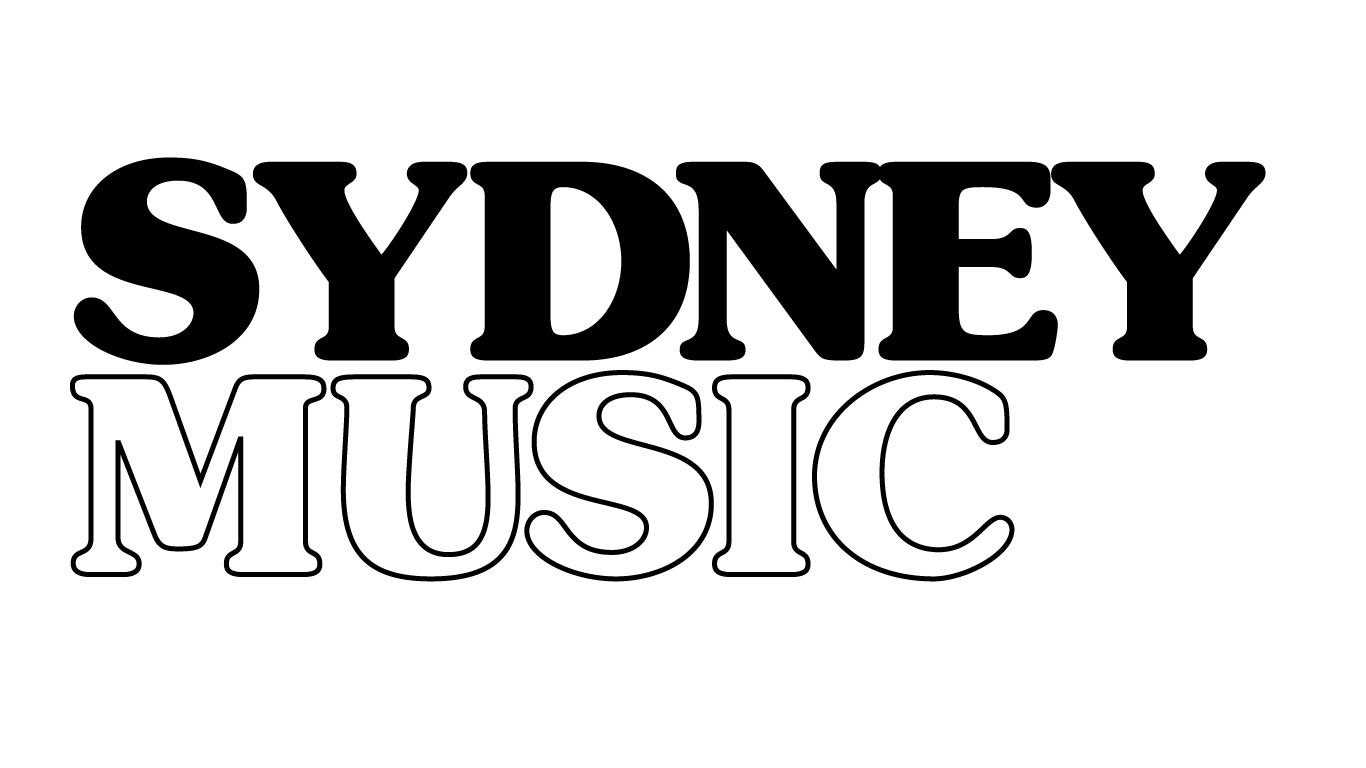
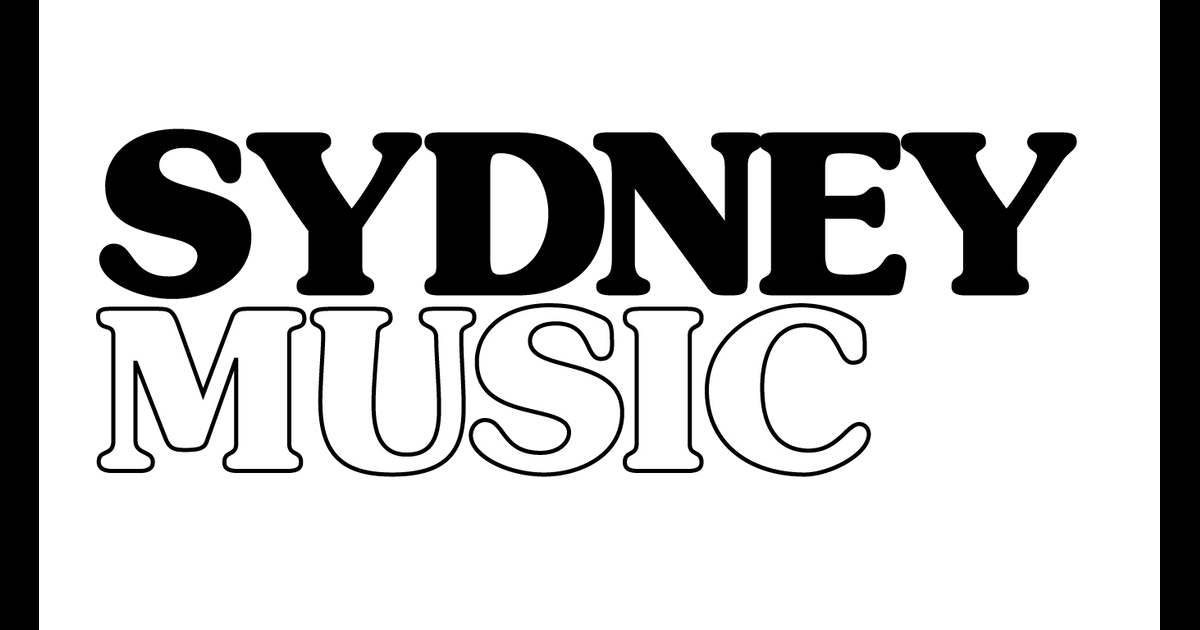
Attempt resize social

diff --git a/src/lib/components/seo-social.svelte b/src/lib/components/seo-social.svelte
@@ -1,30 +1,18 @@
 <script>
 	export let title;
-	export let description;
-	export let keywords;
+	export let description =
+		'SydneyMusic.net is your guide to music in Sydney, with a gig guide, a Discord community and stuff to read.';
+	export let keywords =
+		'sydney,live music,gig guide,community,shows,diy,listings,music writing,nightlife';
 	export let canonical;
 	export let type;
-	export let image;
-	export let imageWidth;
-	export let imageHeight;
+	export let image = 'https://sydneymusic.net/static/social-image.png';
+	export let imageWidth = 1200;
+	export let imageHeight = 630;
 
-    if (!title) {
-        title = "Welcome"
-    }
-
-    if (!description) {
-        description = "SydneyMusic.net is your guide to music in Sydney, with a gig guide, a Discord community and stuff to read."
-    }
-
-    if (!keywords) {
-        keywords = "sydney,live music,gig guide,community,shows,diy,listings,music writing,nightlife"
-    }
-
-    if (!image) {
-        image = "https://sydneymusic.net/static/social-image.png"
-		imageWidth=1366
-		imageHeight=768
-    }
+	if (!title) {
+		title = 'Welcome';
+	}
 </script>
 
 <svelte:head>
@@ -50,8 +38,8 @@
 	<meta property="og:type" content={type ? type : 'site'} />
 	<meta property="og:image" content={image} />
 	{#if imageWidth && imageHeight}
-	<meta property="og:image:width" content="{imageWidth}" />
-	<meta property="og:image:height" content="{imageHeight}" />
+		<meta property="og:image:width" content={imageWidth} />
+		<meta property="og:image:height" content={imageHeight} />
 	{/if}
 
 	<meta name="twitter:card" content="summary_large_image" />
